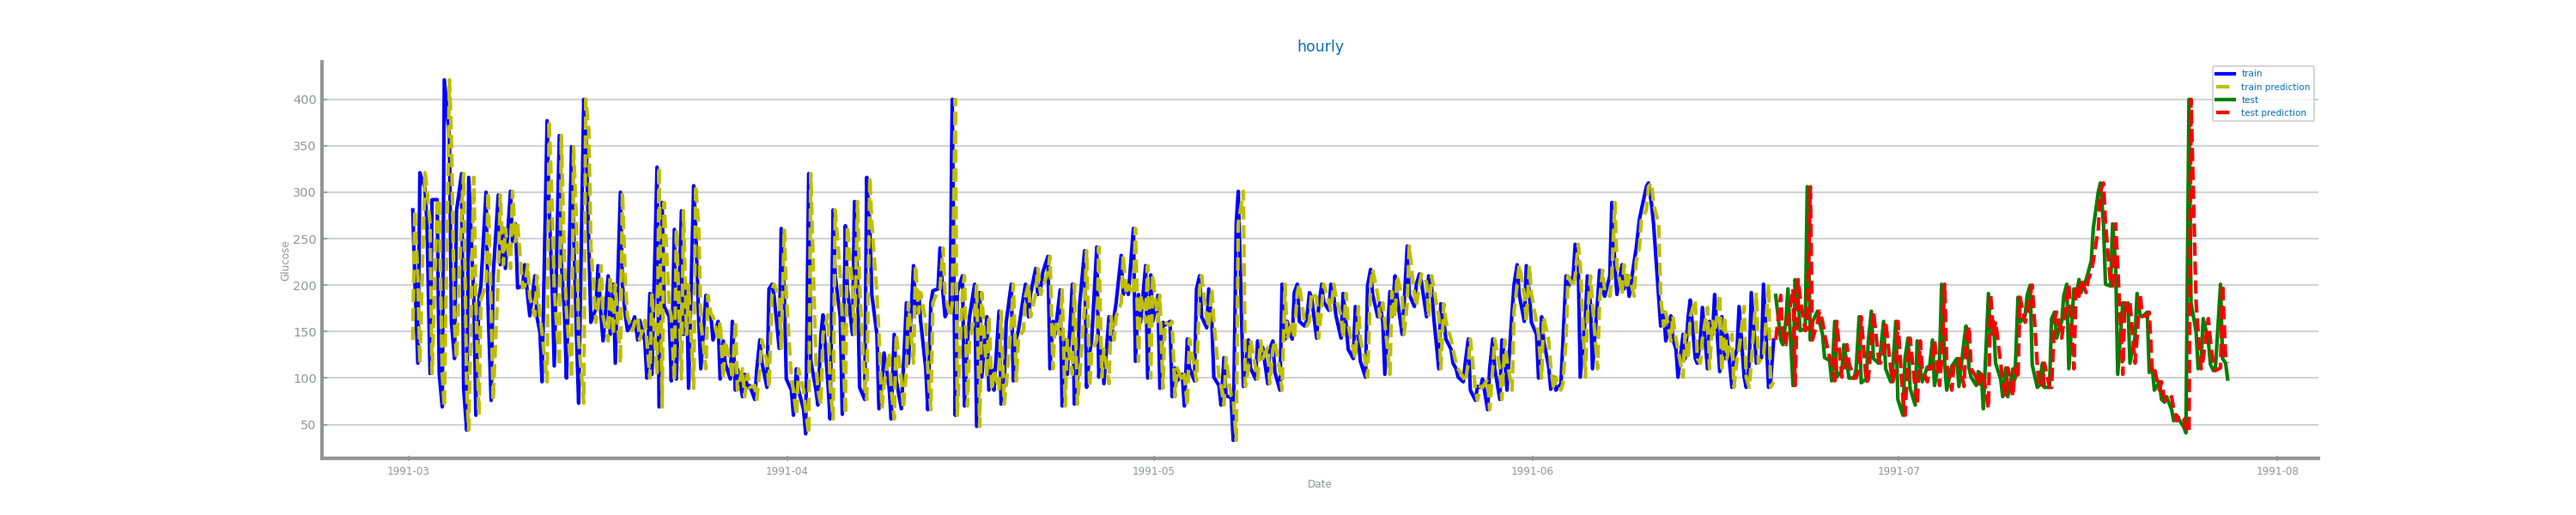
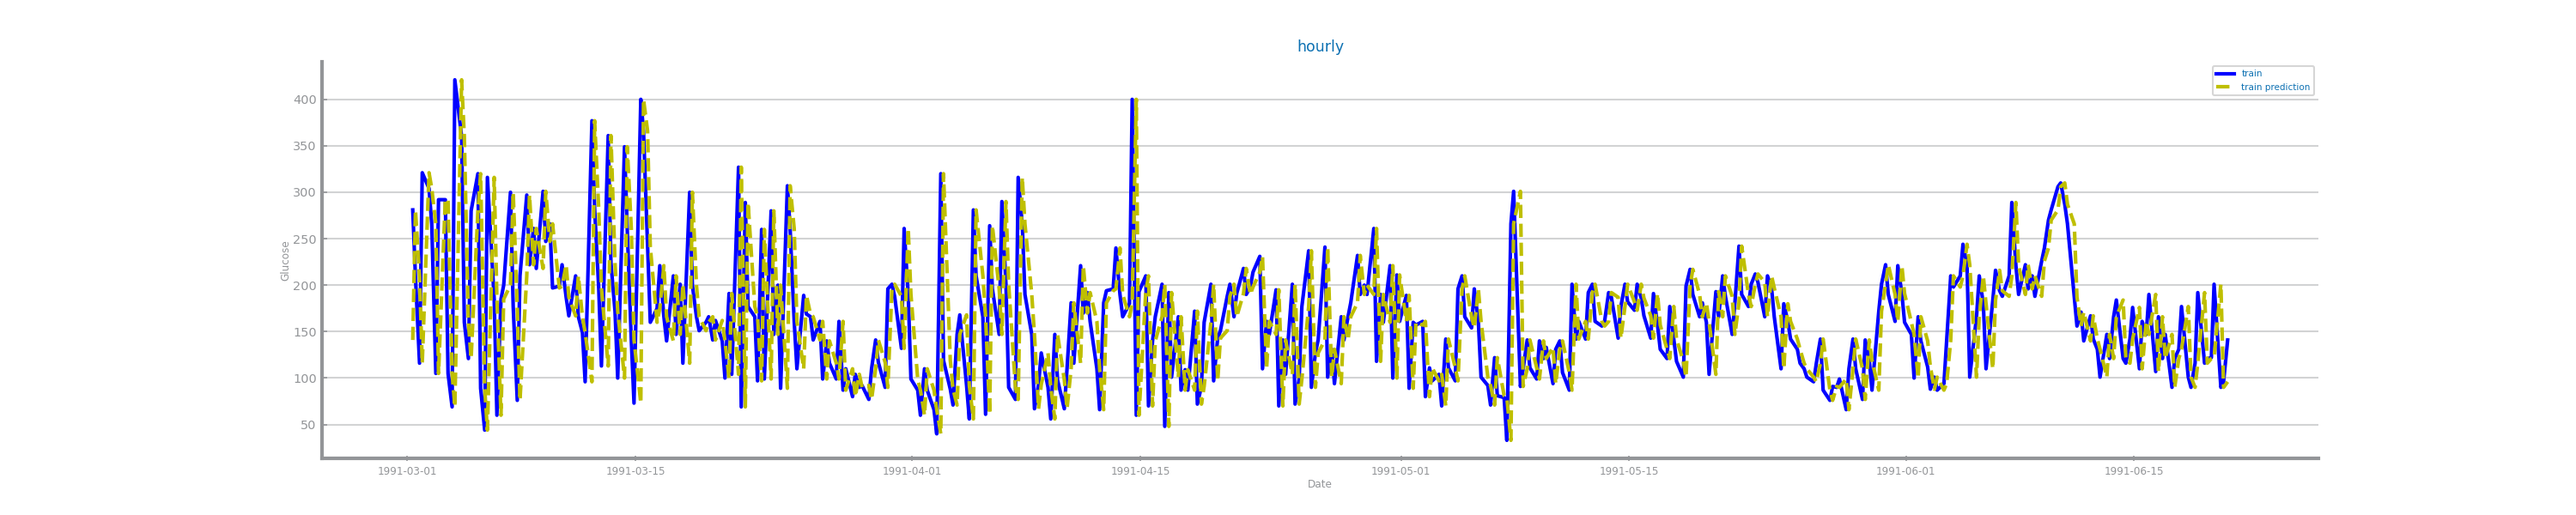
fix aggregation to plot only train

diff --git a/health-forecasting/src/transformation/aggregation.py b/health-forecasting/src/transformation/aggregation.py
@@ -61,15 +61,13 @@ class Aggregation:
         test: pd.DataFrame = df_cp.iloc[trn_size:]
         return train, test
 
-    def plot_forecasting_series(self, trn, tst, prd_trn, prd_tst, file_path: str, tittle: str, x_label: str = 'time', y_label:str =''):
+    def plot_forecasting_series(self, trn, prd_trn, file_path: str, tittle: str, x_label: str = 'time', y_label:str =''):
       _, ax = plt.subplots(1,1,figsize=(5*HEIGHT, HEIGHT), squeeze=True)
       ax.set_xlabel(x_label)
       ax.set_ylabel(y_label)
       ax.set_title(tittle)
       ax.plot(trn.index, trn, label='train', color='b')
       ax.plot(trn.index, prd_trn, '--y', label='train prediction')
-      ax.plot(tst.index, tst, label='test', color='g')
-      ax.plot(tst.index, prd_tst, '--r', label='test prediction')
       ax.legend(prop={'size': 5})
       savefig(file_path)
 
@@ -88,7 +86,7 @@ class Aggregation:
         print(eval_results)
         
         plot_evaluation_results(train.values, prd_trn, test.values, prd_tst, approach, f'health-forecasting/records/transformation/aggregation/aggregation_{approach}_{measure}_persistance_eval')
-        self.plot_forecasting_series(train, test, prd_trn, prd_tst, f'health-forecasting/records/transformation/aggregation/aggregation_{approach}_{measure}_persistance_plots.png', approach,  x_label="Date", y_label="Glucose")
+        self.plot_forecasting_series(train, prd_trn, f'health-forecasting/records/transformation/aggregation/aggregation_{approach}_{measure}_persistance_plots.png', approach,  x_label="Date", y_label="Glucose")
 
 class PersistenceRegressor (RegressorMixin):
     def __init__(self):
